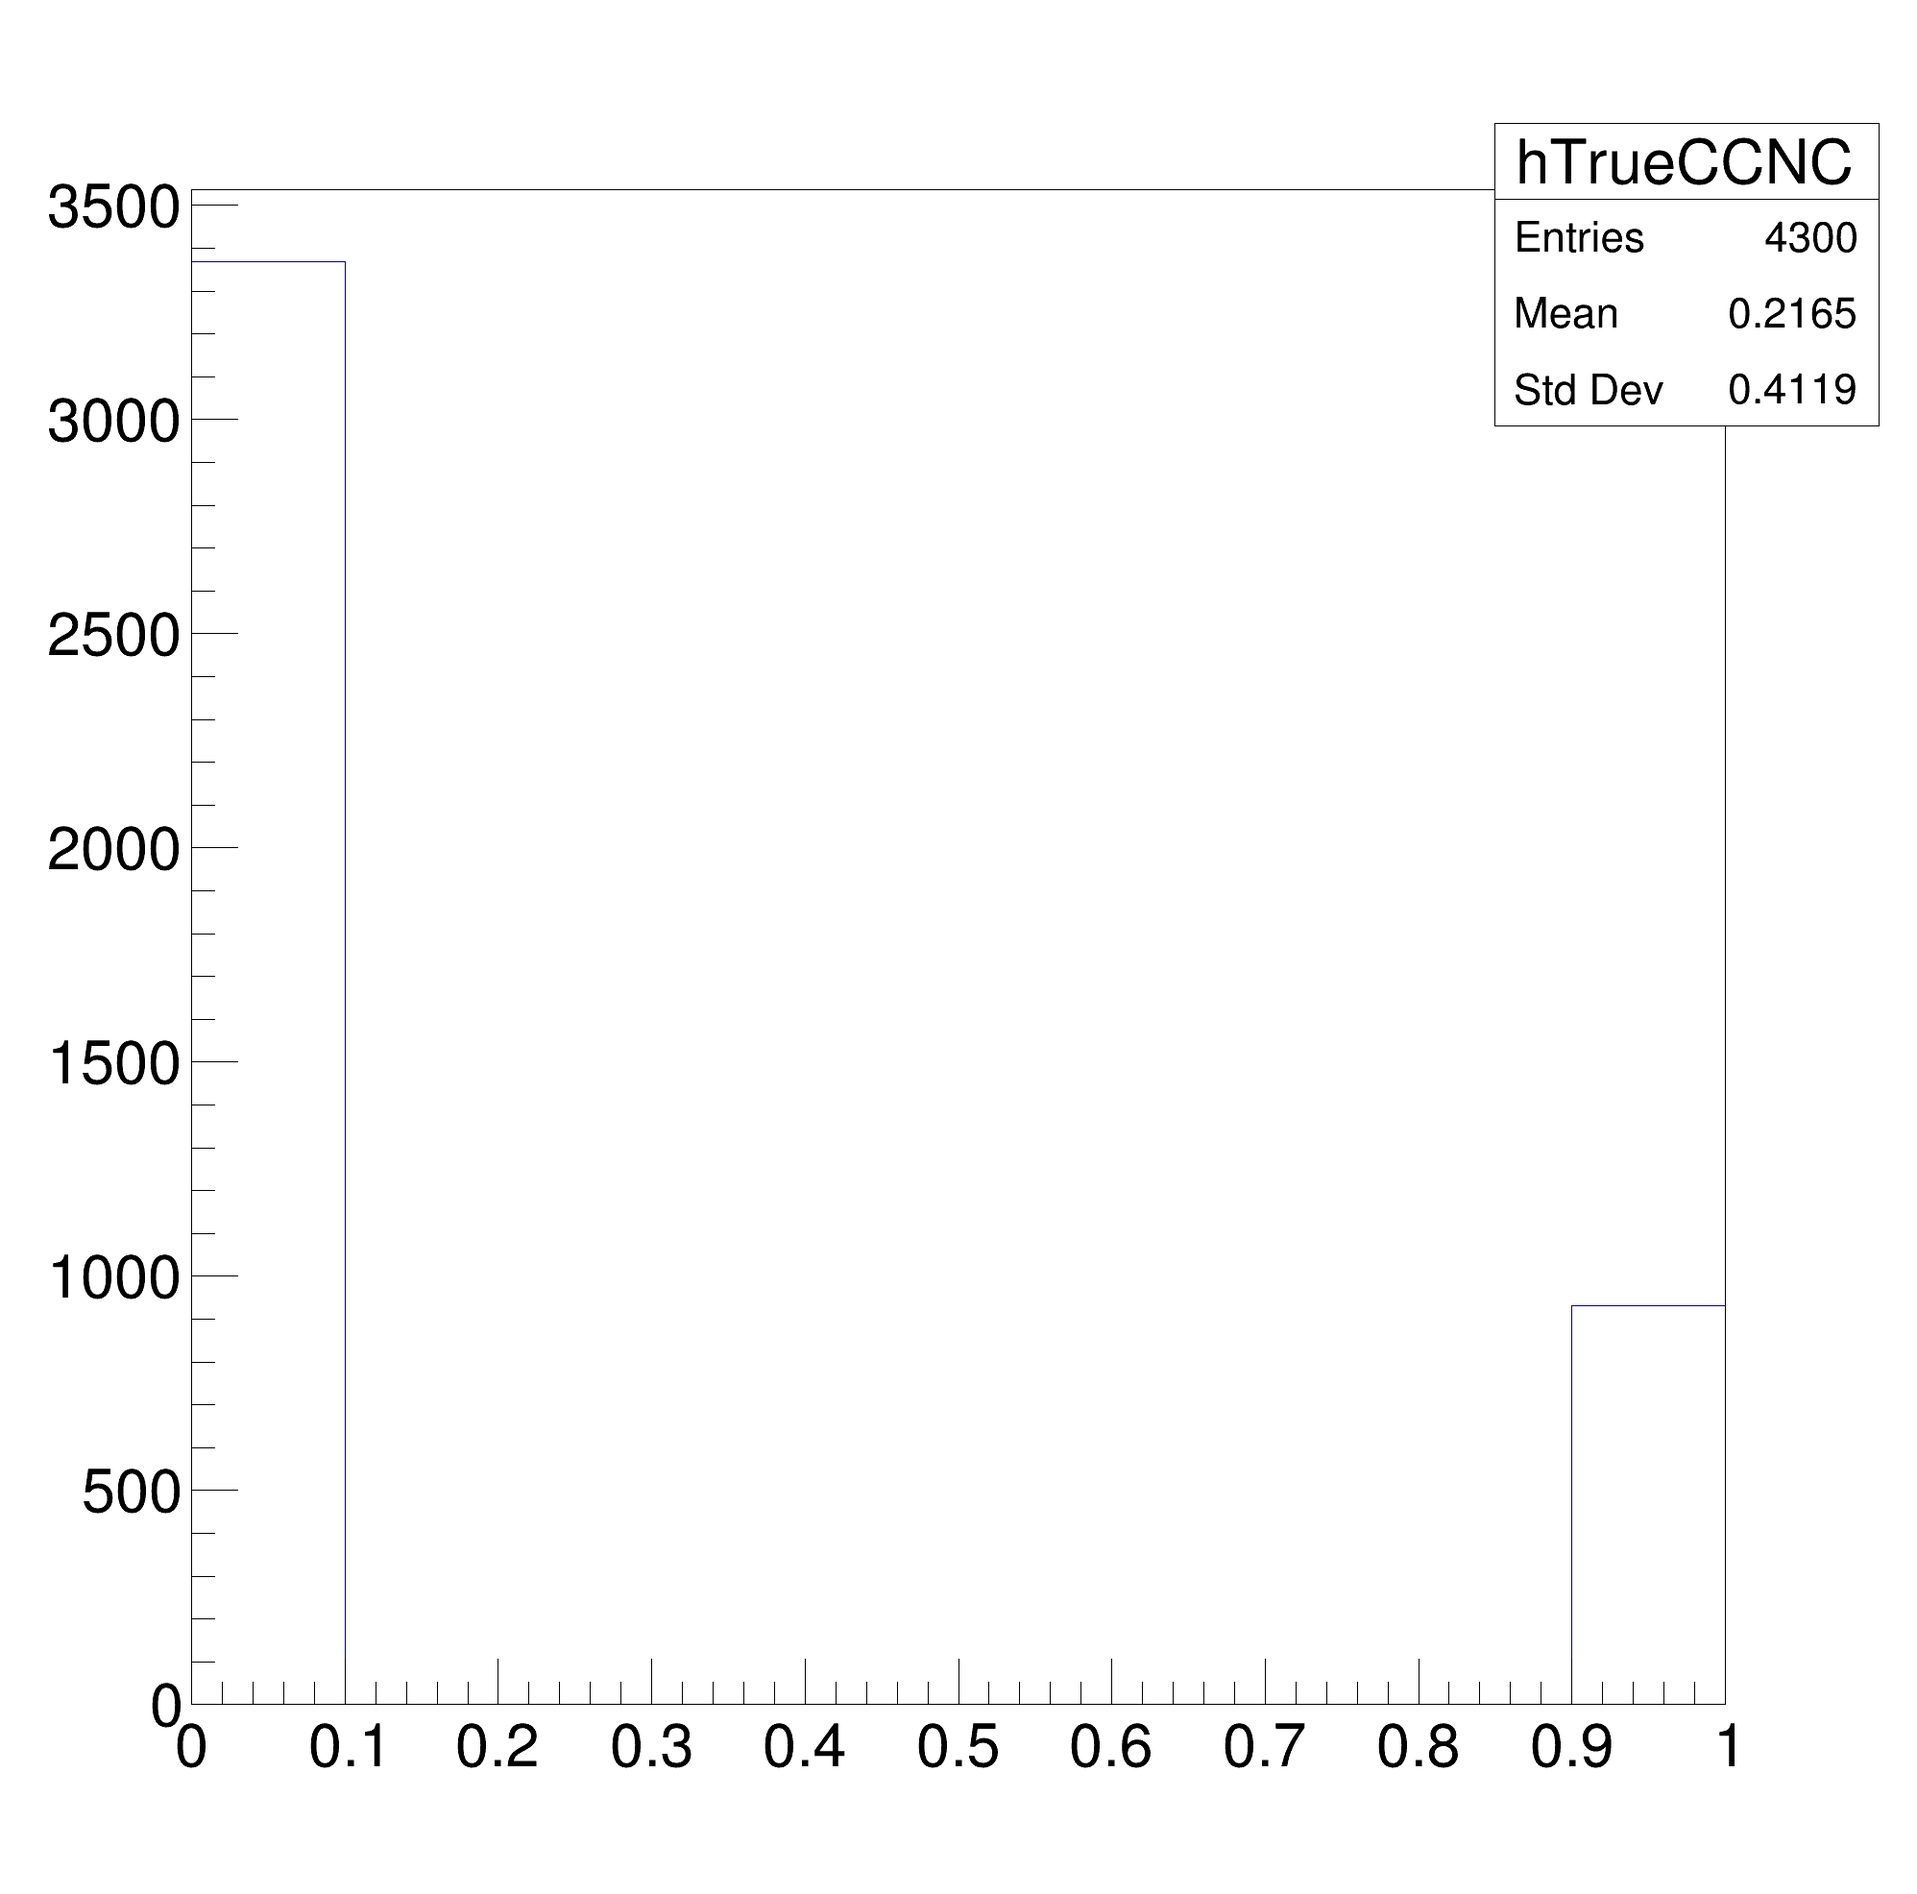
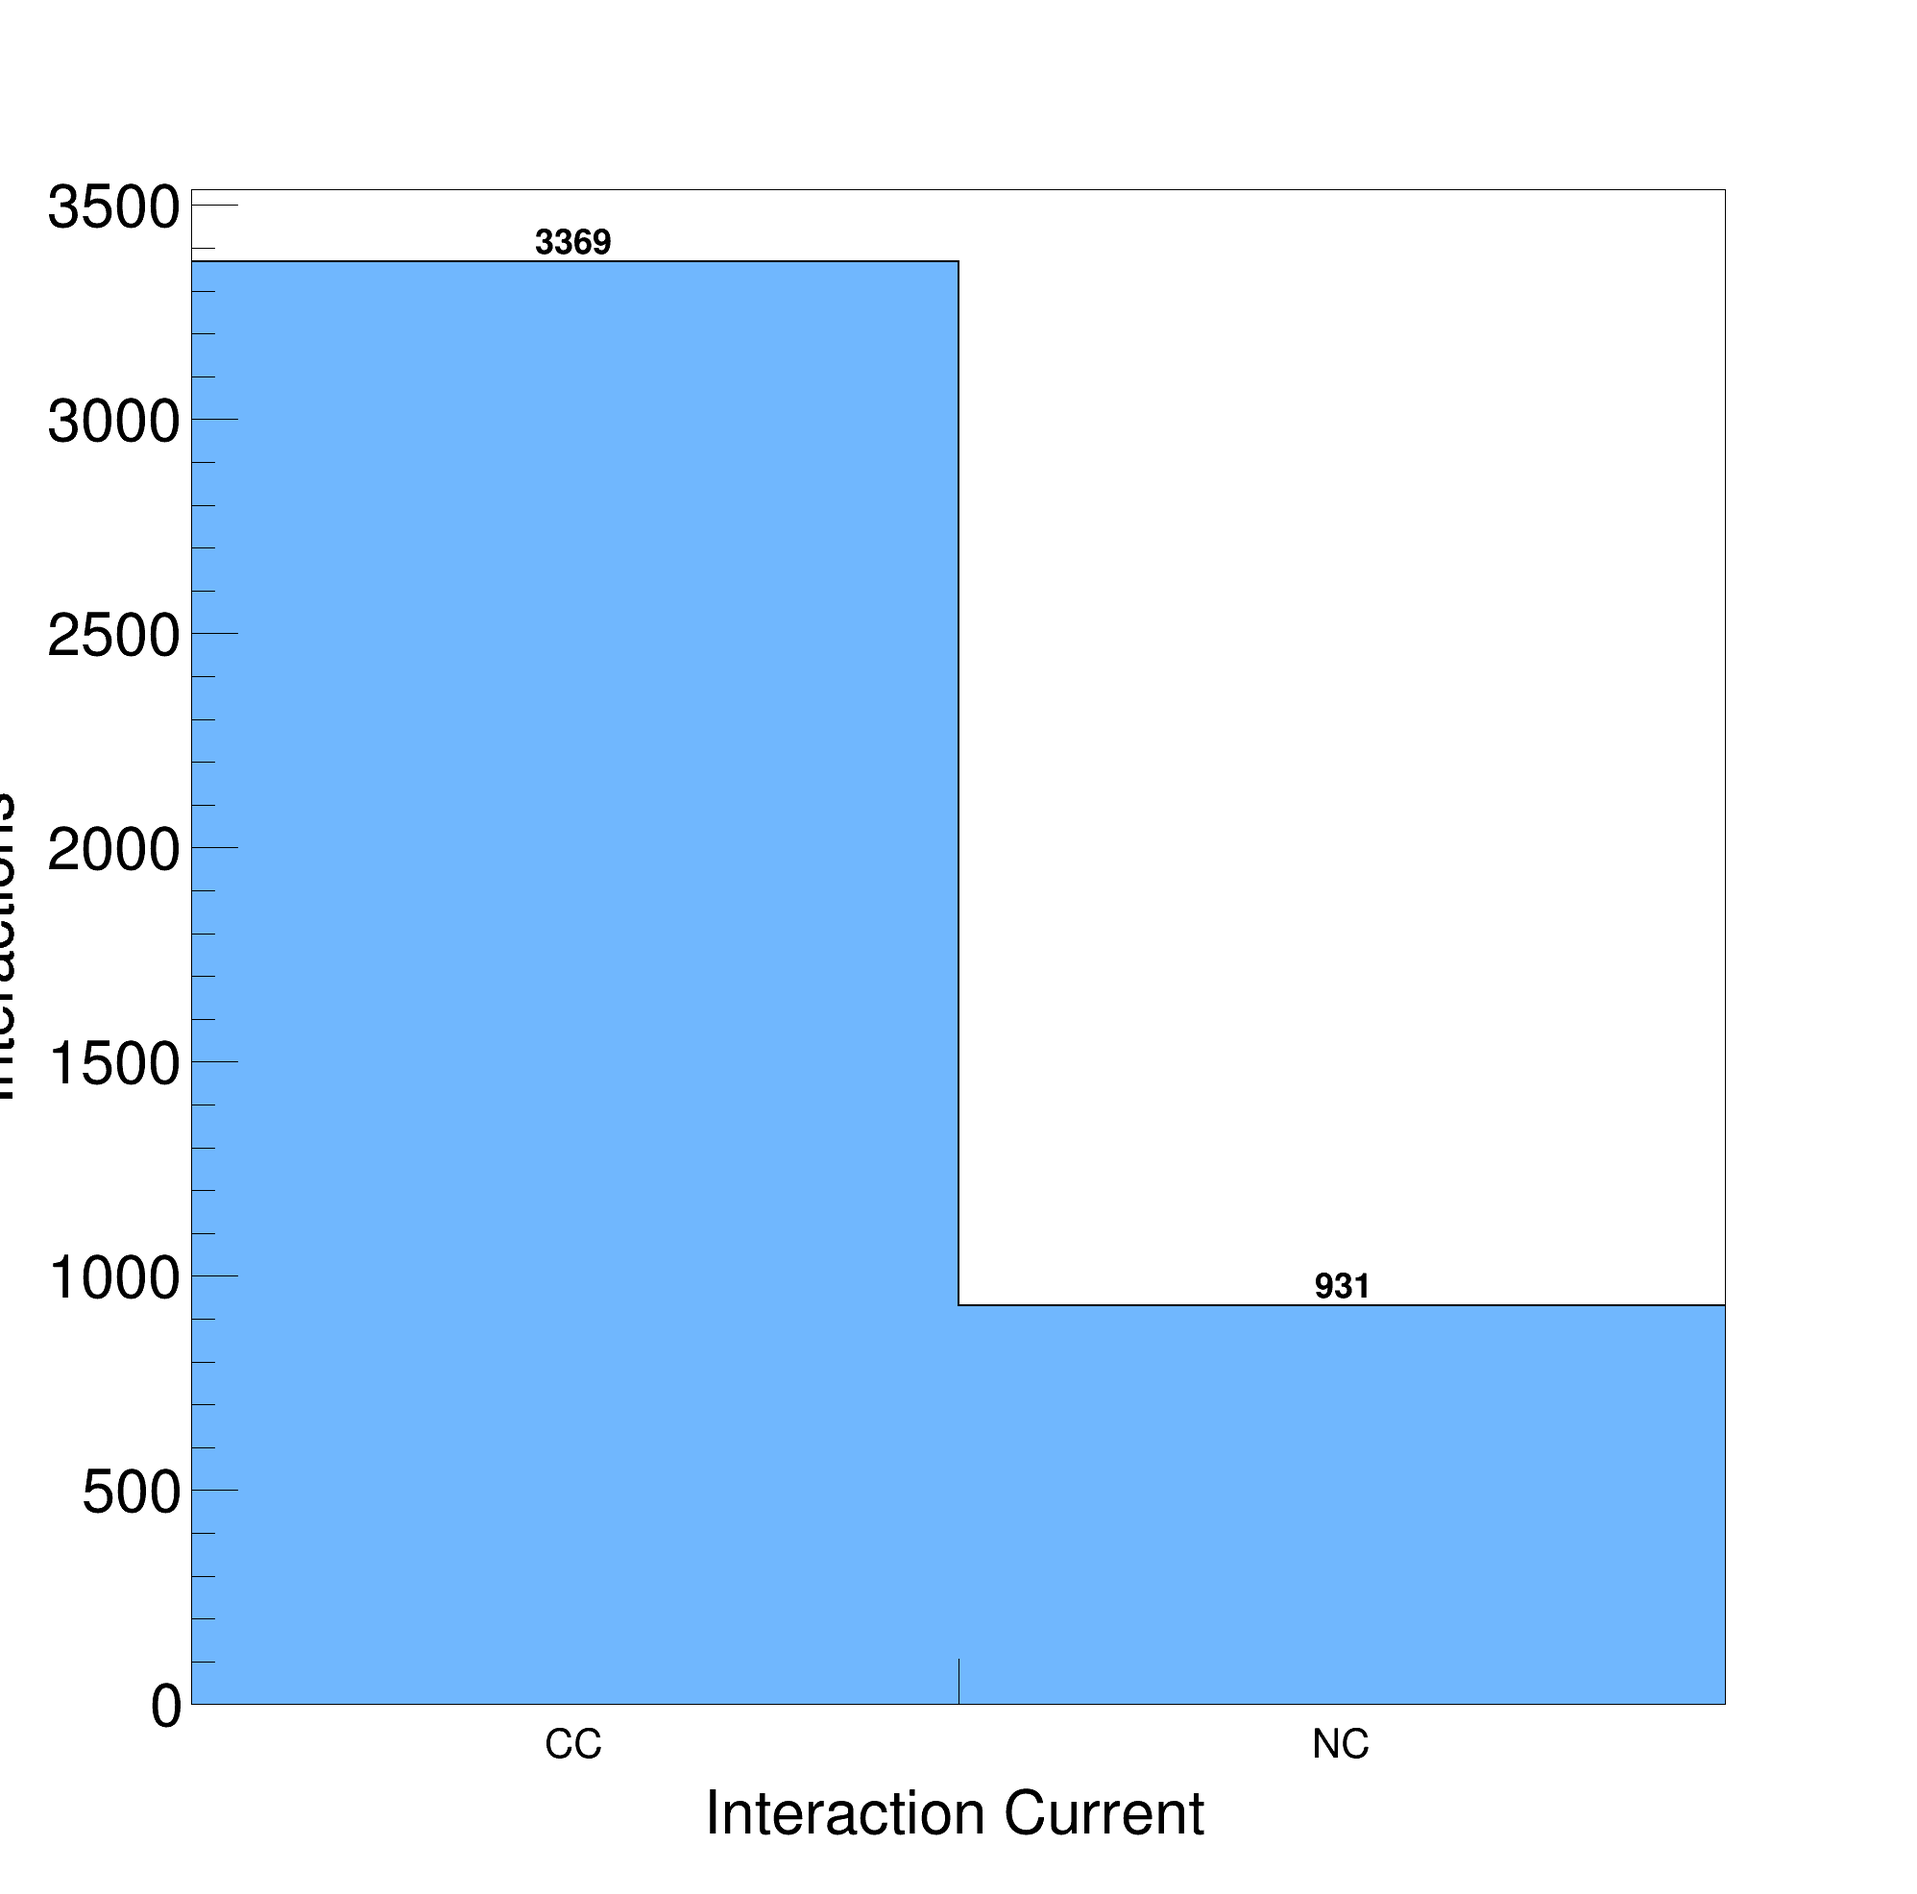
CC NC plot edits

diff --git a/output/plots/trueBeamCCNC.C b/output/plots/trueBeamCCNC.C
@@ -4,52 +4,44 @@
 void trueBeamCCNC()
 {
 //=========Macro generated from canvas: c3/True CCNC
-//=========  (Thu Aug  6 10:24:12 2026) by ROOT version 6.28/12
+//=========  (Mon Aug 10 13:57:24 2026) by ROOT version 6.28/12
    TCanvas *c3 = new TCanvas("c3", "True CCNC",0,0,2000,2000);
-   c3->Range(-0.125,-442.1813,1.125,3979.631);
+   gStyle->SetOptStat(0);
+   c3->Range(-0.75,-442.1813,1.75,3979.631);
    c3->SetFillColor(0);
    c3->SetBorderMode(0);
    c3->SetBorderSize(2);
    c3->SetFrameBorderMode(0);
    c3->SetFrameBorderMode(0);
    
-   TH1F *hTrueCCNC__3 = new TH1F("hTrueCCNC__3","",10,0,1);
+   TH1F *hTrueCCNC__3 = new TH1F("hTrueCCNC__3","",2,-0.5,1.5);
    hTrueCCNC__3->SetBinContent(1,3369);
-   hTrueCCNC__3->SetBinContent(10,931);
+   hTrueCCNC__3->SetBinContent(2,931);
+   hTrueCCNC__3->SetMinimum(0);
    hTrueCCNC__3->SetEntries(4300);
    hTrueCCNC__3->SetDirectory(nullptr);
-   
-   TPaveStats *ptstats = new TPaveStats(0.78,0.775,0.98,0.935,"brNDC");
-   ptstats->SetName("stats");
-   ptstats->SetBorderSize(1);
-   ptstats->SetFillColor(0);
-   ptstats->SetTextAlign(12);
-   ptstats->SetTextFont(42);
-   TText *ptstats_LaTex = ptstats->AddText("hTrueCCNC");
-   ptstats_LaTex->SetTextSize(0.0368);
-   ptstats_LaTex = ptstats->AddText("Entries = 4300   ");
-   ptstats_LaTex = ptstats->AddText("Mean  = 0.2165");
-   ptstats_LaTex = ptstats->AddText("Std Dev   = 0.4119");
-   ptstats->SetOptStat(1111);
-   ptstats->SetOptFit(0);
-   ptstats->Draw();
-   hTrueCCNC__3->GetListOfFunctions()->Add(ptstats);
-   ptstats->SetParent(hTrueCCNC__3);
 
    Int_t ci;      // for color index setting
    TColor *color; // for color definition with alpha
-   ci = TColor::GetColor("#000099");
-   hTrueCCNC__3->SetLineColor(ci);
-   hTrueCCNC__3->GetXaxis()->SetRange(1,10);
+   ci = 1179;
+   color = new TColor(ci, 0.2, 0.6, 1, " ", 0.7);
+   hTrueCCNC__3->SetFillColor(ci);
+   hTrueCCNC__3->SetLineWidth(2);
+   hTrueCCNC__3->GetXaxis()->SetTitle("Interaction Current");
+   hTrueCCNC__3->GetXaxis()->SetBinLabel(1,"CC");
+   hTrueCCNC__3->GetXaxis()->SetBinLabel(2,"NC");
+   hTrueCCNC__3->GetXaxis()->CenterTitle(true);
    hTrueCCNC__3->GetXaxis()->SetLabelFont(42);
    hTrueCCNC__3->GetXaxis()->SetTitleOffset(1);
    hTrueCCNC__3->GetXaxis()->SetTitleFont(42);
+   hTrueCCNC__3->GetYaxis()->SetTitle("Interactions");
+   hTrueCCNC__3->GetYaxis()->CenterTitle(true);
    hTrueCCNC__3->GetYaxis()->SetLabelFont(42);
    hTrueCCNC__3->GetYaxis()->SetTitleFont(42);
    hTrueCCNC__3->GetZaxis()->SetLabelFont(42);
    hTrueCCNC__3->GetZaxis()->SetTitleOffset(1);
    hTrueCCNC__3->GetZaxis()->SetTitleFont(42);
-   hTrueCCNC__3->Draw("HIST");
+   hTrueCCNC__3->Draw("HIST TEXT0");
    c3->Modified();
    c3->cd();
    c3->SetSelected(c3);

diff --git a/output/tmvaPrep.C b/output/tmvaPrep.C
@@ -429,7 +429,7 @@ void tmvaPrep::Loop()
    hTrueIntMode->SetDirectory(nullptr);
    TH1F *hTrueIntType = new TH1F("hTrueIntType", "", 10, -1, -1);
    hTrueIntType->SetDirectory(nullptr);
-   TH1F *hTrueCCNC = new TH1F("hTrueCCNC", "", 10, -1, -1);
+   TH1F *hTrueCCNC = new TH1F("hTrueCCNC", "", 2, -0.5, 1.5);
    hTrueCCNC->SetDirectory(nullptr);
 
 
@@ -807,7 +807,23 @@ for (std::size_t i = 0; i < nonEmptyBins.size(); ++i) {
    TCanvas *c3 = new TCanvas("c3", "True CCNC", 2000, 2000);
 
   // hTrueCCNC->GetXAxis()->SetTitle("CCNC");
-   hTrueCCNC->Draw("HIST");
+   hTrueCCNC->GetXaxis()->SetBinLabel(1, "CC");
+   hTrueCCNC->GetXaxis()->SetBinLabel(2, "NC");
+
+   hTrueCCNC->GetXaxis()->SetTitle("Interaction Current");
+   hTrueCCNC->GetYaxis()->SetTitle("Interactions");
+
+   hTrueCCNC->GetXaxis()->CenterTitle();
+   hTrueCCNC->GetYaxis()->CenterTitle();
+
+   hTrueCCNC->SetMinimum(0);
+
+   gStyle->SetOptStat(0);
+   hTrueCCNC->SetFillColorAlpha(kAzure + 1, 0.7);
+   hTrueCCNC->SetLineColor(kBlack);
+  hTrueCCNC->SetLineWidth(2);
+
+   hTrueCCNC->Draw("HIST TEXT0");
    c3->Print("plots/trueBeamCCNC.png");
    c3->SaveAs("plots/trueBeamCCNC.C");
 
@@ -877,7 +893,7 @@ for (std::size_t i = 0; i < nonEmptyBins.size(); ++i) {
         hTopology->GetXaxis()->CenterTitle();
         hTopology->GetYaxis()->CenterTitle();
 
-        hTopology->GetXaxis()->SetTitleOffset(1.5);
+        hTopology->GetXaxis()->SetTitleOffset(3.5);
         hTopology->GetYaxis()->SetTitleOffset(1.3);
 
         hTopology->GetXaxis()->SetLabelSize(0.035);

diff --git a/output/plots/trueIntModeCompact.C b/output/plots/trueIntModeCompact.C
@@ -4,8 +4,9 @@
 void trueIntModeCompact()
 {
 //=========Macro generated from canvas: c4/True Interaction Mode Compact
-//=========  (Thu Aug  6 10:24:12 2026) by ROOT version 6.28/12
+//=========  (Mon Aug 10 13:57:24 2026) by ROOT version 6.28/12
    TCanvas *c4 = new TCanvas("c4", "True Interaction Mode Compact",0,0,2000,2000);
+   gStyle->SetOptStat(0);
    c4->Range(-0.5,-236.775,4.5,2130.975);
    c4->SetFillColor(0);
    c4->SetBorderMode(0);
@@ -23,23 +24,6 @@ void trueIntModeCompact()
    hTrueIntModeCompact__4->SetBinError(3,19.15724);
    hTrueIntModeCompact__4->SetBinError(4,3.162278);
    hTrueIntModeCompact__4->SetEntries(4);
-   
-   TPaveStats *ptstats = new TPaveStats(0.78,0.775,0.98,0.935,"brNDC");
-   ptstats->SetName("stats");
-   ptstats->SetBorderSize(1);
-   ptstats->SetFillColor(0);
-   ptstats->SetTextAlign(12);
-   ptstats->SetTextFont(42);
-   TText *ptstats_LaTex = ptstats->AddText("hTrueIntModeCompact");
-   ptstats_LaTex->SetTextSize(0.0368);
-   ptstats_LaTex = ptstats->AddText("Entries = 4      ");
-   ptstats_LaTex = ptstats->AddText("Mean  =      0");
-   ptstats_LaTex = ptstats->AddText("Std Dev   =      0");
-   ptstats->SetOptStat(1111);
-   ptstats->SetOptFit(0);
-   ptstats->Draw();
-   hTrueIntModeCompact__4->GetListOfFunctions()->Add(ptstats);
-   ptstats->SetParent(hTrueIntModeCompact__4);
 
    Int_t ci;      // for color index setting
    TColor *color; // for color definition with alpha

diff --git a/output/plots/finalStateTopologiesBkg.C b/output/plots/finalStateTopologiesBkg.C
@@ -4,7 +4,7 @@
 void finalStateTopologiesBkg()
 {
 //=========Macro generated from canvas: cTopology/Final-state topologies
-//=========  (Thu Aug  6 10:24:12 2026) by ROOT version 6.28/12
+//=========  (Mon Aug 10 13:57:24 2026) by ROOT version 6.28/12
    TCanvas *cTopology = new TCanvas("cTopology", "Final-state topologies",0,0,1800,1100);
    gStyle->SetOptStat(0);
    cTopology->Range(-2.168675,-783.0001,15.90361,1827);
@@ -36,6 +36,7 @@ void finalStateTopologiesBkg()
    hTopology__5->SetMinimum(0);
    hTopology__5->SetMaximum(1566);
    hTopology__5->SetEntries(15);
+   hTopology__5->SetStats(0);
 
    Int_t ci;      // for color index setting
    TColor *color; // for color definition with alpha
@@ -60,7 +61,7 @@ void finalStateTopologiesBkg()
    hTopology__5->GetXaxis()->SetBit(TAxis::kLabelsVert);
    hTopology__5->GetXaxis()->CenterTitle(true);
    hTopology__5->GetXaxis()->SetLabelFont(42);
-   hTopology__5->GetXaxis()->SetTitleOffset(1.5);
+   hTopology__5->GetXaxis()->SetTitleOffset(3.5);
    hTopology__5->GetXaxis()->SetTitleFont(42);
    hTopology__5->GetYaxis()->SetTitle("Interactions");
    hTopology__5->GetYaxis()->CenterTitle(true);

diff --git a/output/plots/trueBeamIntType.C b/output/plots/trueBeamIntType.C
@@ -4,7 +4,7 @@
 void trueBeamIntType()
 {
 //=========Macro generated from canvas: c1/True Interaction Type
-//=========  (Thu Aug  6 10:24:11 2026) by ROOT version 6.28/12
+//=========  (Mon Aug 10 13:57:23 2026) by ROOT version 6.28/12
    TCanvas *c1 = new TCanvas("c1", "True Interaction Type",0,0,2000,2000);
    c1->Range(987.5,-513.8438,1112.5,4624.594);
    c1->SetFillColor(0);

diff --git a/output/plots/trueBeamIntMode.C b/output/plots/trueBeamIntMode.C
@@ -4,7 +4,7 @@
 void trueBeamIntMode()
 {
 //=========Macro generated from canvas: c2/True Interaction Mode
-//=========  (Thu Aug  6 10:24:12 2026) by ROOT version 6.28/12
+//=========  (Mon Aug 10 13:57:23 2026) by ROOT version 6.28/12
    TCanvas *c2 = new TCanvas("c2", "True Interaction Mode",0,0,2000,2000);
    c2->Range(-1.25,-236.775,11.25,2130.975);
    c2->SetFillColor(0);
